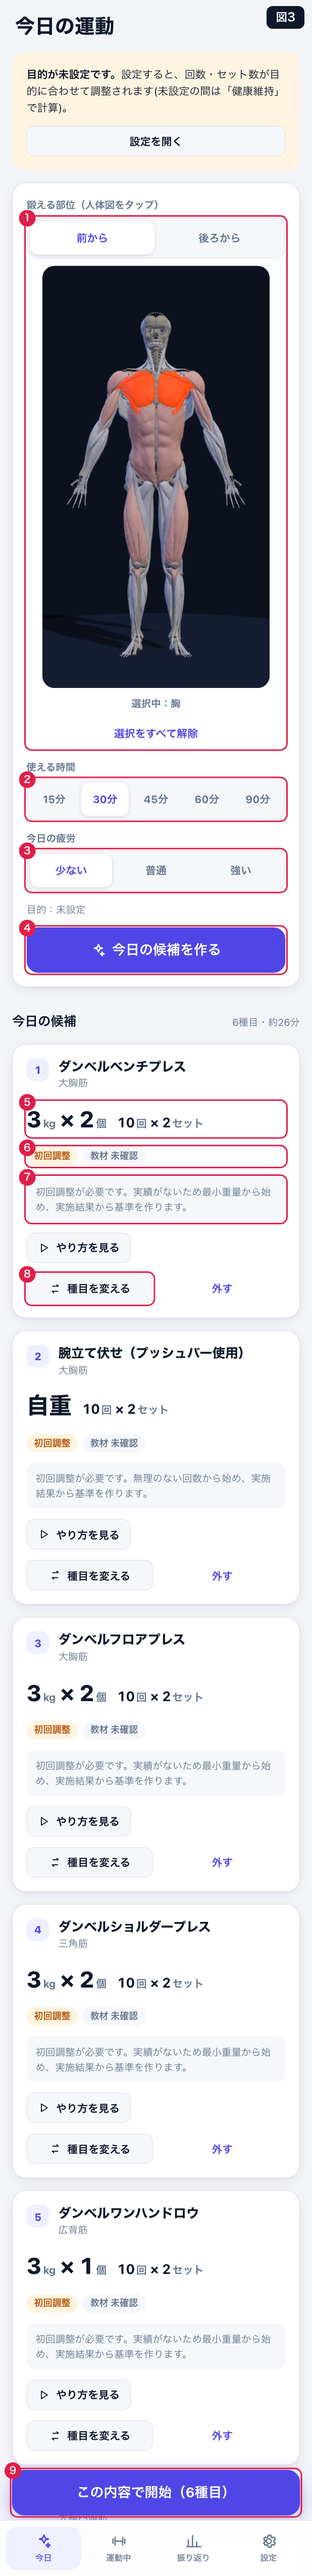
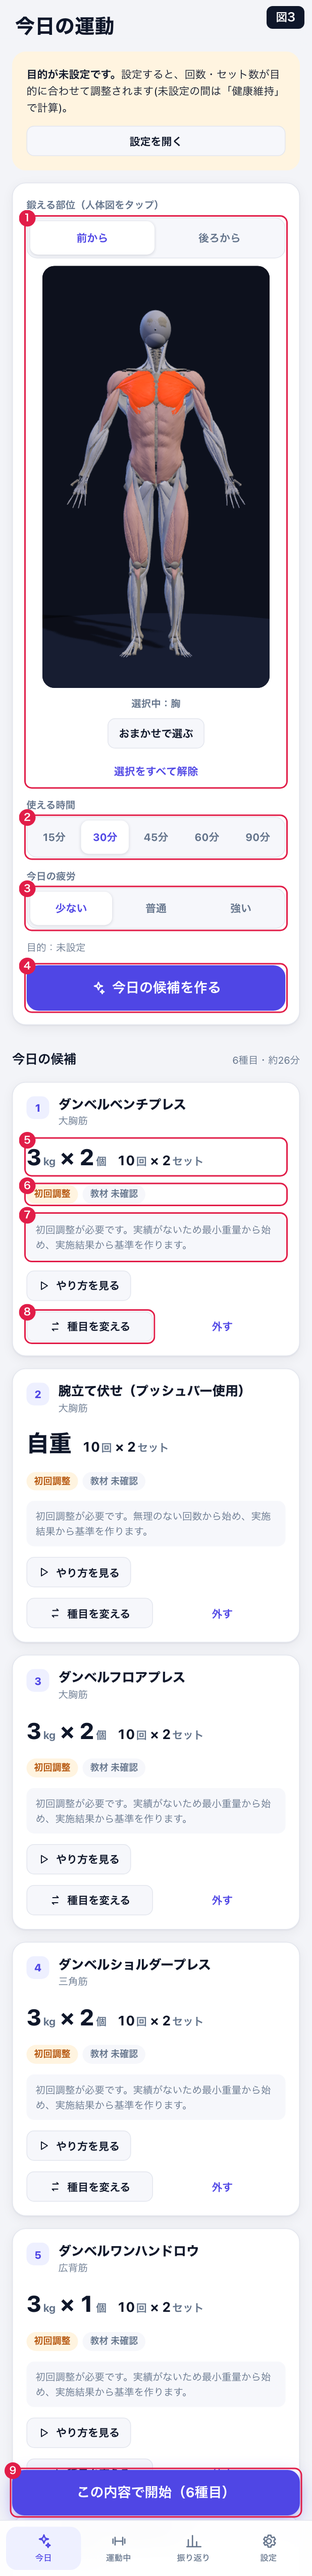
部位の「おまかせ」選択、ダンベルを青に、顔は頭蓋・筋肉を出さずなめらかな頭に変更し、GIFを再生成
腕の追従範囲を絞って肩まわりのはみ出しを軽減、ヒップスラストの腕の位置を修正。

diff --git a/app/e2e/bodymap.spec.ts b/app/e2e/bodymap.spec.ts
@@ -1,5 +1,5 @@
 import { expect, test, type Page } from "@playwright/test";
-import { buildProposal, card, open, selectGroup } from "./helpers";
+import { buildProposal, card, mutateData, open, selectGroup } from "./helpers";
 
 test.beforeEach(async ({ page }) => {
   await open(page);
@@ -10,8 +10,10 @@ test.beforeEach(async ({ page }) => {
 
 /** 人体図の上の位置(幅・高さの割合)をタップする */
 async function tap(page: Page, xr: number, yr: number) {
-  const b = (await page.getByTestId("bodymap-stage").boundingBox())!;
-  await page.mouse.click(b.x + b.width * xr, b.y + b.height * yr);
+  const stage = page.getByTestId("bodymap-stage");
+  const b = (await stage.boundingBox())!;
+  // Playwrightにスクロールと、固定ヘッダーに隠れていないかの確認を任せる
+  await stage.click({ position: { x: b.width * xr, y: b.height * yr } });
 }
 const hint = (page: Page) => page.locator(".bodymap-hint");
 
@@ -82,5 +84,38 @@ test.describe("人体図で部位を選ぶ", () => {
       expect(await page.locator("section.card[aria-label]").count(), label).toBeGreaterThan(0);
       void card;
     }
+  });
+});
+
+test.describe("おまかせ", () => {
+  test("「おまかせで選ぶ」で部位が自動選択され、理由が表示される", async ({ page }) => {
+    await page.getByRole("button", { name: "おまかせで選ぶ" }).click();
+    await expect(page.locator(".bodymap-hint")).toHaveText("選択中：胸・肩");
+    await expect(page.getByTestId("auto-note")).toContainText("おまかせ：胸（まだ記録なし）・肩（まだ記録なし）");
+    await expect(page.locator("img.bodymap-on")).toHaveCount(2);
+  });
+
+  test("手で選び直すと、おまかせの説明は消える", async ({ page }) => {
+    await page.getByRole("button", { name: "おまかせで選ぶ" }).click();
+    await tap(page, 0.42, 0.33); // 胸を外す
+    await expect(page.getByTestId("auto-note")).toHaveCount(0);
+  });
+
+  test("最近鍛えた部位は避けて、空いている部位を選ぶ", async ({ page }) => {
+    await mutateData(
+      page,
+      `const now = Date.now();
+       ['dumbbell-bench-press','dumbbell-shoulder-press'].forEach((ex, i) => data.setRecords.push({
+         id: 'a' + i, sessionId: 's' + i, exerciseId: ex, order: 0, side: 'both', weightKg: 9, pieceCount: 2, reps: 10,
+         effort: '2', pain: false, isWarmup: false, completedAt: new Date(now - 86400000).toISOString(), updatedVersion: 1 }));`
+    );
+    await page.getByRole("button", { name: "おまかせで選ぶ" }).click();
+    await expect(page.locator(".bodymap-hint")).toHaveText("選択中：上腕二頭筋・腹筋");
+  });
+
+  test("おまかせで選んだ部位で候補を作れる", async ({ page }) => {
+    await page.getByRole("button", { name: "おまかせで選ぶ" }).click();
+    await buildProposal(page);
+    expect(await page.locator("section.card[aria-label]").count()).toBeGreaterThan(0);
   });
 });

diff --git a/app/tools/motion/rig.ts b/app/tools/motion/rig.ts
@@ -149,6 +149,21 @@ export class Rig {
       const ankle = mk(knee, new THREE.Vector3(0, -S, 0));
       this.legs[side] = { root: hip, mid: knee, end: ankle };
     }
+    // 頭: 顔面は鍛える対象ではないため、頭蓋骨や筋肉は出さず、なめらかな頭にする
+    const skin = new THREE.MeshStandardMaterial({ color: 0xc9ccd6, roughness: 0.6 });
+    const skull = new THREE.Mesh(new THREE.SphereGeometry(1, 40, 28), skin);
+    skull.scale.set(0.083, 0.098, 0.095);
+    skull.position.set(0, 0.078, 0.012);
+    const jaw = new THREE.Mesh(new THREE.SphereGeometry(1, 32, 20), skin);
+    jaw.scale.set(0.058, 0.06, 0.07);
+    jaw.position.set(0, 0.03, 0.03);
+    const nose = new THREE.Mesh(new THREE.ConeGeometry(0.016, 0.04, 12), skin);
+    nose.rotation.x = Math.PI / 2;
+    nose.position.set(0, 0.06, 0.1);
+    for (const m of [skull, jaw, nose]) {
+      m.castShadow = true;
+      head.add(m);
+    }
     this.scene.add(root);
     const bones: THREE.Bone[] = [
       root, torso, head,
@@ -210,13 +225,15 @@ export class Rig {
 
   private buildProps() {
     const mat = new THREE.MeshStandardMaterial({ color: DARK, roughness: 0.5, metalness: 0.35 });
+    const plateMat = new THREE.MeshStandardMaterial({ color: 0x2d9cff, roughness: 0.35, metalness: 0.25, emissive: 0x0a3a70, emissiveIntensity: 0.5 });
+    const gripMat = new THREE.MeshStandardMaterial({ color: 0xd5d9e2, roughness: 0.3, metalness: 0.6 });
     for (let i = 0; i < 2; i++) {
       const g = new THREE.Group();
-      const handle = new THREE.Mesh(new THREE.CylinderGeometry(0.014, 0.014, 0.16, 12), mat);
+      const handle = new THREE.Mesh(new THREE.CylinderGeometry(0.014, 0.014, 0.16, 12), gripMat);
       handle.rotation.z = Math.PI / 2;
       g.add(handle);
       for (const x of [-0.09, 0.09]) {
-        const plate = new THREE.Mesh(new THREE.CylinderGeometry(0.055, 0.055, 0.045, 6), mat);
+        const plate = new THREE.Mesh(new THREE.CylinderGeometry(0.055, 0.055, 0.045, 6), plateMat);
         plate.rotation.z = Math.PI / 2;
         plate.position.x = x;
         plate.castShadow = true;

diff --git a/app/src/screens/Today.tsx b/app/src/screens/Today.tsx
@@ -14,7 +14,7 @@ import type { Proposal } from "../domain/types";
 import { Card, EmptyState, Icon, Segmented, Sheet } from "../components/ui";
 import { MotionGuide } from "../components/MotionGuide";
 import { BodyMap } from "../components/BodyMap";
-import { muscleNamesOf } from "../domain/bodyMap";
+import { describeAutoPick, muscleNamesOf, suggestGroups } from "../domain/bodyMap";
 
 interface Props {
   onStartWorkout: () => void;
@@ -23,7 +23,12 @@ interface Props {
 
 export function Today({ onStartWorkout, onOpenSettings }: Props) {
   const { data, addProposal, startSession } = useAppData();
-  const [selectedGroups, setSelectedGroups] = useState<string[]>([]);
+  const [selectedGroups, setSelectedGroupsRaw] = useState<string[]>([]);
+  const [autoNote, setAutoNote] = useState<string | null>(null);
+  const setSelectedGroups = (ids: string[]) => {
+    setAutoNote(null); // 手で変えたら、おまかせの説明は消す
+    setSelectedGroupsRaw(ids);
+  };
   const [minutes, setMinutes] = useState(data.personalSettings.sessionMinutes ?? 30);
   const [fatigue, setFatigue] = useState<"low" | "mid" | "high">("low");
   const [proposal, setProposal] = useState<Proposal | null>(null);
@@ -148,7 +153,16 @@ export function Today({ onStartWorkout, onOpenSettings }: Props) {
       <Card>
         <div className="field">
           <span className="field-label">鍛える部位（人体図をタップ）</span>
-          <BodyMap value={selectedGroups} onChange={setSelectedGroups} />
+          <BodyMap
+            value={selectedGroups}
+            onChange={setSelectedGroups}
+            note={autoNote}
+            onAuto={() => {
+              const picks = suggestGroups(data.setRecords, data.exercises, new Date());
+              setSelectedGroupsRaw(picks.map((p) => p.id));
+              setAutoNote(describeAutoPick(picks));
+            }}
+          />
         </div>
         <div className="field">
           <span className="field-label">使える時間</span>

diff --git a/app/src/domain/__tests__/bodyMap.test.ts b/app/src/domain/__tests__/bodyMap.test.ts
@@ -15,3 +15,39 @@ describe("人体図の部位", () => {
     for (const g of BODY_GROUPS) expect(g.views.length).toBeGreaterThan(0);
   });
 });
+
+import { describeAutoPick, suggestGroups } from "../bodyMap";
+
+describe("おまかせ(最も空いている部位)", () => {
+  const ex = INITIAL_EXERCISES;
+  const now = new Date("2026-09-20T03:00:00Z");
+  const set = (exerciseId: string, daysAgo: number, extra = {}) => ({
+    exerciseId,
+    completedAt: new Date(now.getTime() - daysAgo * 86400000).toISOString(),
+    isWarmup: false,
+    ...extra,
+  });
+
+  it("記録がなければ、未実施の部位を並び順で選ぶ", () => {
+    const picks = suggestGroups([], ex, now);
+    expect(picks.map((p) => p.id)).toEqual(["chest", "shoulder"]);
+    expect(picks.every((p) => p.days === null)).toBe(true);
+  });
+
+  it("最近鍛えた部位は避け、最も日数が空いた部位を選ぶ", () => {
+    // 胸(ベンチプレス)を1日前、肩を10日前、他は未実施 → 未実施が優先され、実施済みでは肩が先
+    const picks = suggestGroups([set("dumbbell-bench-press", 1), set("dumbbell-shoulder-press", 10)], ex, now, 9);
+    const ids = picks.map((p) => p.id);
+    expect(ids.indexOf("shoulder")).toBeLessThan(ids.indexOf("chest"));
+    expect(ids.slice(-2)).toEqual(["shoulder", "chest"]);
+  });
+
+  it("準備セットと削除済みのセットは数えない", () => {
+    const picks = suggestGroups([set("dumbbell-bench-press", 0, { isWarmup: true }), set("dumbbell-bench-press", 0, { deletedAt: "x" })], ex, now);
+    expect(picks[0]).toMatchObject({ id: "chest", days: null });
+  });
+
+  it("説明文を作れる", () => {
+    expect(describeAutoPick([{ id: "chest", label: "胸", days: null }, { id: "glute", label: "お尻", days: 5 }])).toBe("おまかせ：胸（まだ記録なし）・お尻（5日ぶり）");
+  });
+});

diff --git a/app/src/domain/bodyMap.ts b/app/src/domain/bodyMap.ts
@@ -13,3 +13,42 @@ export const BODY_GROUPS = groups as (BodyGroup & { regions: string[] })[];
 export function muscleNamesOf(groupIds: string[]): string[] {
   return BODY_GROUPS.filter((g) => groupIds.includes(g.id)).flatMap((g) => g.names);
 }
+
+export interface AutoPick {
+  id: string;
+  label: string;
+  /** 最後に鍛えてからの日数。一度も鍛えていなければnull */
+  days: number | null;
+}
+
+/**
+ * おまかせ: 最後に鍛えてから最も日数が空いている(未実施を最優先)部位を count 個選ぶ。
+ * 同順位は BODY_GROUPS の並び順。準備セット・削除済みは数えない。
+ */
+export function suggestGroups(
+  setRecords: { exerciseId: string; completedAt: string; isWarmup: boolean; deletedAt?: string }[],
+  exercises: { id: string; primaryMuscle: string }[],
+  now: Date,
+  count = 2
+): AutoPick[] {
+  const muscleOf = new Map(exercises.map((e) => [e.id, e.primaryMuscle]));
+  const picks = BODY_GROUPS.map((g) => {
+    let last = -Infinity;
+    for (const s of setRecords) {
+      if (s.deletedAt || s.isWarmup) continue;
+      const m = muscleOf.get(s.exerciseId);
+      if (m && g.names.includes(m)) last = Math.max(last, new Date(s.completedAt).getTime());
+    }
+    const days = last === -Infinity ? null : Math.floor((now.getTime() - last) / 86400000);
+    return { id: g.id, label: g.label, days };
+  });
+  return picks
+    .map((p, i) => ({ p, i }))
+    .sort((a, b) => (b.p.days ?? Infinity) - (a.p.days ?? Infinity) || a.i - b.i)
+    .slice(0, count)
+    .map((x) => x.p);
+}
+
+export function describeAutoPick(picks: AutoPick[]): string {
+  return `おまかせ：${picks.map((p) => `${p.label}（${p.days === null ? "まだ記録なし" : p.days === 0 ? "今日実施済み" : `${p.days}日ぶり`}）`).join("・")}`;
+}

diff --git a/app/src/components/BodyMap.tsx b/app/src/components/BodyMap.tsx
@@ -10,7 +10,17 @@ const H = 780;
  * 人体図(解剖学モデル)をタップして、鍛える部位を選ぶ。
  * 色付きのレイヤー(public/bodymap)を重ね、選んだ部位は明るく、未選択は薄く光って押せる場所を示す。
  */
-export function BodyMap({ value, onChange }: { value: string[]; onChange: (ids: string[]) => void }) {
+export function BodyMap({
+  value,
+  onChange,
+  onAuto,
+  note,
+}: {
+  value: string[];
+  onChange: (ids: string[]) => void;
+  onAuto: () => void;
+  note?: string | null;
+}) {
   const [view, setView] = useState<View>("front");
   const alpha = useRef(new Map<string, ImageData>());
   const [ready, setReady] = useState(0);
@@ -81,9 +91,17 @@ export function BodyMap({ value, onChange }: { value: string[]; onChange: (ids: 
       </div>
       <p className="muted bodymap-hint">
         {value.length === 0
-          ? "鍛えたい部位をタップしてください。未選択ならおまかせで選びます。"
+          ? "鍛えたい部位をタップしてください。未選択なら全身からおまかせで選びます。"
           : `選択中：${BODY_GROUPS.filter((g) => value.includes(g.id)).map((g) => g.label).join("・")}`}
       </p>
+      {note && value.length > 0 && (
+        <p className="muted bodymap-note" data-testid="auto-note">
+          {note}
+        </p>
+      )}
+      <button type="button" className="btn btn-secondary btn-sm" onClick={onAuto}>
+        おまかせで選ぶ
+      </button>
       {value.length > 0 && (
         <button type="button" className="btn btn-ghost btn-sm" onClick={() => onChange([])}>
           選択をすべて解除

diff --git a/app/tools/motion/motions.ts b/app/tools/motion/motions.ts
@@ -225,7 +225,7 @@ export function buildMotions(d: Dims): Record<string, Motion> {
           bench: { pos: [0, 0, -0.32], ry: 90 },
           ...feetIK([0.2, ANK, 0.42], [0.2, 1, 0.7]),
           footYaw: 6,
-          ...armsIK([0.13, 0.1, 0.16], "root", [0.4, 0.2, 0.5]),
+          ...armsIK([0.14, 0.0, 0.14], "root", [0.8, -0.2, 0.3]),
           heldTwo: { axis: X, frame: "world" },
         };
       },

diff --git a/app/src/App.css b/app/src/App.css
@@ -1225,3 +1225,9 @@ input.stepper-input {
   white-space: nowrap;
   border: 0;
 }
+
+.bodymap-note {
+  text-align: center;
+  color: var(--primary);
+  font-weight: 700;
+}

diff --git a/docs/screen-spec.md b/docs/screen-spec.md
@@ -162,7 +162,8 @@ flowchart LR
 |---|---|
 | 筋肉をタップ | その部位を選択/解除(9部位: 胸・肩・上腕二頭筋・腹筋・太もも前・背中・上腕三頭筋・お尻・太もも裏) |
 | 前から/後ろから | 向きを切替。選択は保持される |
-| 選択をすべて解除 | 未選択(おまかせ)に戻る |
+| おまかせで選ぶ | 最も長く鍛えていない(未実施を優先)2部位を自動選択し、理由を表示 |
+| 選択をすべて解除 | 未選択(全身おまかせ)に戻る |
 
 ## 7. 共通
 
